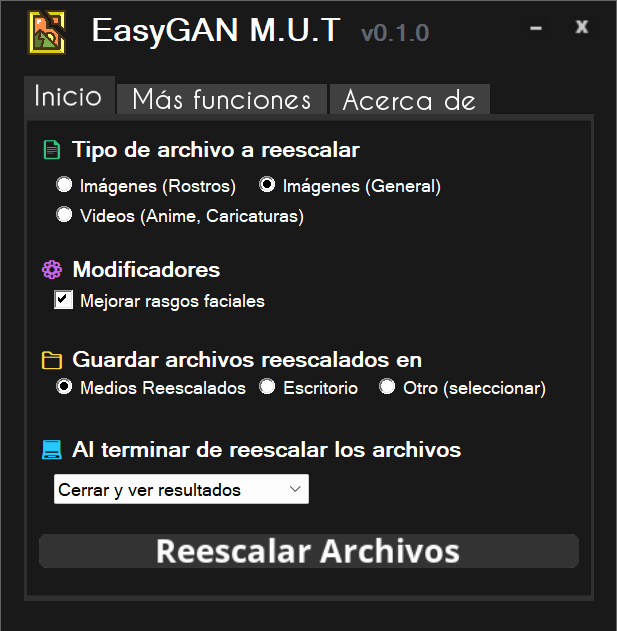
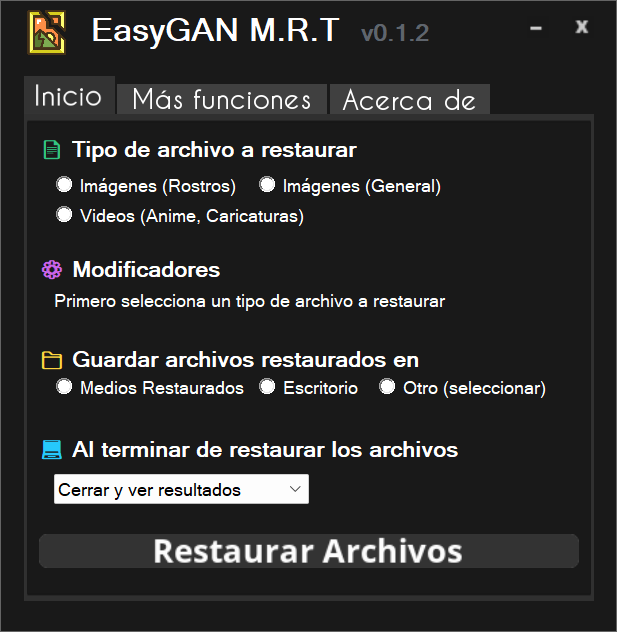
v0.1.2
Pequeña corrección de errores relacionados con python y los complementos de GFP-GAN y RealESRGAN.

Adicionalmente, estoy consciente del error con basicsr+torchvision y [cómo solucionarlo](https://github.com/Gourieff/comfyui-reactor-node/issues/161#issuecomment-1868389557), pero he decicido NO hacer un arreglo 'hard-coded' en caso de que actualicen la librería (aunque ya lleva algunos meses).

diff --git a/Configuraciones/find-library.py b/Configuraciones/find-library.py
@@ -1,0 +1,7 @@
+import importlib.util
+import sys
+spec = importlib.util.find_spec(sys.argv[1])
+if spec is None:
+    print("Not Installed")
+else:
+    print("Installed")

diff --git a/Configuraciones/upgrade-pip.py b/Configuraciones/upgrade-pip.py
@@ -1,0 +1,2 @@
+import subprocess
+subprocess.run(['pip','install','--upgrade','pip'])

diff --git a/README.md b/README.md
@@ -2,33 +2,18 @@
 
 Si quieres ver cómo funciona y qué resultados puedes obtener, te invito a revisar la sección de [Demostración de funcionamiento](https://github.com/mautech05/easygan-media-restoration-tool/blob/main/demos.md) y el [GitHub de Real-ESRGAN](https://github.com/xinntao/Real-ESRGAN)
 
-Este proyecto fue realizado enteramente en scripting de [AutoHotKey v2](https://github.com/AutoHotkey/AutoHotkey). Te invito a que revises cada línea de código y que instales este programa sólo si estás de acuerdo con el contenido y las prácticas que realiza.
+Este proyecto fue realizado mayoritariamente en scripting de [AutoHotKey v2](https://github.com/AutoHotkey/AutoHotkey). Te invito a que revises cada línea de código y que instales este programa sólo si estás de acuerdo con el contenido y las prácticas que realiza.
+
+![GitHub All Releases](https://img.shields.io/badge/version-0.1.2-blue)
+![GitHub All Releases](https://img.shields.io/github/downloads/mautech05/easygan-media-restoration-tool/total)
+
 ## Capturas de Pantalla
 ![Menú](https://github.com/mautech05/easygan-media-restoration-tool/blob/main/preview.png)
-## Sumas de Verificación
-Puedes utilizar estos *checksum* para verificar que la descarga no ha sido alterada y/o infectada por un atacante. En caso de que no tengas una herramienta para esta tarea te recomendamos [Quick Checksum Tool](https://github.com/mautech05/quick-checksum-tool).
-
-| NOMBRE DE ARCHIVO               | SHA256                                                           | MD5                              |
-|---------------------------------|------------------------------------------------------------------|----------------------------------|
-| [EasyGAN_MediaRestorationTool.ahk](https://github.com/mautech05/easygan-media-restoration-tool/blob/main/EasyGAN_MediaRestorationTool.ahk) | b07be8e3bbad3f99f2fdac9922ff043d6121adcbf7753767e43526b2d3c4eb5d | 97b1ee54e0f40cca603f1b4290f60980 |
 
 ## Instalación
 ⚠⚠Es importante mencionar que este programa **requiere** del uso de **AutoHotKey v2** para funcionar. No obstante, también ofrecemos una versión ya compilada para aquellos que no desean o no pueden instalar AutoHotKey. Dicha versión compilada [no está firmada digitalmente](https://www.redeszone.net/2018/04/21/comprobar-firmas-digitales-programas-windows/) (la licencia cuesta casi 500 euros) por lo que Windows tratará de evitar su ejecución.
-- Si **NO** planeas instalar AutoHotKey avanza hasta [esta sección](#sin-autohotkey-instalado) de la guía de instalación.
-- Si estás pensando en instalar este intérprete de scripts sigue [este link](https://www.autohotkey.com/download/ahk-v2.exe) para descargarlo en tu computador y, posteriormente, avanza hasta [esta sección](#con-autohotkey-instalado).
-
-### SIN AutoHotKey instalado
-1. 🌐 Haz clic sobre [este enlace](https://github.com/mautech05/easygan-media-restoration-tool/releases) para dirigirte a la página de las *releases*.
-2. 👀 Ubica el artículo/bloque/*release* que, a la derecha del título, tenga una etiqueta verde con el texto **latest**.
-3. ⚙ Haz clic izquierdo sobre el texto que dice *Assets* para desplegar el menú colapsable. Te mostrará tres enlaces a varios archivos, pero el que nos interesa es el que dice **easygan_release.zip**.
-4. 📦 Presiona clic izquierdo sobre este para comenzar la descarga. Una vez que se haya terminado, coloca el archivo comprimido *.zip* donde prefieras.
-5. 🔓 Utilizando el software de tu preferencia, descomprime el contenido del ZIP, asegurándote de marcar la opción correspondiente para *extraer aquí*.
-6. 📁 Esto te debió haber generado una carpeta con nombre **easygan_release**. Si es así, entonces ya puedes eliminar el archivo comprimido *.zip* pues ya no lo necesitaremos más.
-7. 📄 Abre la carpeta de  **easygan_release** que extraíste previamente. Una vez allí, ubica el archivo llamado **EasyGAN_release.exe** y haz doble clic izquierdo sobre él para ejecutarlo.
-- Si te aparece la ventana azul de *[SmartScreen](https://www.adslzone.net/esenciales/windows/smartscreen-windows/)* es necesario que hagas clic izquierdo sobre el texto de "Más Información" y luego otro clic izquierdo sobre el texto de "Ejecutar de todos modos"
-8. ⌛ Espera unos segundos. El programa creará tres carpetas y posteriormente abrirá la interfaz.
-9. ✅ ¡Todo Listo! Ya puedes comenzar a utilizar el programa. 
-Recuerda que la próxima ocasión que abras el **EasyGAN_release.exe** no tendrás que esperar pues ya cuentas con las tres carpetas esenciales para el funcionamiento de EasyGAN Media Restoration Tool.
+- Si **NO** planeas instalar AutoHotKey (**❌ NO RECOMENDADO**) avanza hasta [esta sección](#sin-autohotkey-instalado) de la guía de instalación.
+- Si estás pensando en instalar este intérprete (**✅ RECOMENDADO**) de scripts sigue [este link](https://www.autohotkey.com/download/ahk-v2.exe) para descargarlo en tu computador y, posteriormente, avanza hasta [esta sección](#con-autohotkey-instalado).
 
 ### CON AutoHotKey instalado
 Si tienes [GIT](https://git-scm.com/) instalado en tu ordenador:
@@ -45,6 +30,26 @@ En caso de que no tengas [GIT](https://git-scm.com/) instalado:
 6. 📲 Cuando se haya terminado la descarga de estas librerías, el instalador te preguntará si deseas crear un acceso directo en el escritorio. De igual forma.
 7. 🐍 Dentro de la misma pantalla te estará apareciendo un texto preguntándote si deseas instalar el [Intérprete de Python recomendado](https://www.python.org/downloads/release/python-31011/) y tres botones de acción. Selecciona el que prefieras.
 8. 😁 ¡Todo Listo! El programa se reiniciará automáticamente y podrás comenzar a usarlo.
+
+### SIN AutoHotKey instalado (**❌ NO RECOMENDADO**)
+1. 🌐 Haz clic sobre [este enlace](https://github.com/mautech05/easygan-media-restoration-tool/releases) para dirigirte a la página de las *releases*.
+2. 👀 Ubica el artículo/bloque/*release* que, a la derecha del título, tenga una etiqueta verde con el texto **latest**.
+3. ⚙ Haz clic izquierdo sobre el texto que dice *Assets* para desplegar el menú colapsable. Te mostrará tres enlaces a varios archivos, pero el que nos interesa es el que dice **easygan_release.zip**.
+4. 📦 Presiona clic izquierdo sobre este para comenzar la descarga. Una vez que se haya terminado, coloca el archivo comprimido *.zip* donde prefieras.
+5. 🔓 Utilizando el software de tu preferencia, descomprime el contenido del ZIP, asegurándote de marcar la opción correspondiente para *extraer aquí*.
+6. 📁 Esto te debió haber generado una carpeta con nombre **easygan_release**. Si es así, entonces ya puedes eliminar el archivo comprimido *.zip* pues ya no lo necesitaremos más.
+7. 📄 Abre la carpeta de  **easygan_release** que extraíste previamente. Una vez allí, ubica el archivo llamado **EasyGAN_release.exe** y haz doble clic izquierdo sobre él para ejecutarlo.
+- Si te aparece la ventana azul de *[SmartScreen](https://www.adslzone.net/esenciales/windows/smartscreen-windows/)* es necesario que hagas clic izquierdo sobre el texto de "Más Información" y luego otro clic izquierdo sobre el texto de "Ejecutar de todos modos"
+8. ⌛ Espera unos segundos. El programa creará tres carpetas y posteriormente abrirá la interfaz.
+9. ✅ ¡Todo Listo! Ya puedes comenzar a utilizar el programa. 
+Recuerda que la próxima ocasión que abras el **EasyGAN_release.exe** no tendrás que esperar pues ya cuentas con las tres carpetas esenciales para el funcionamiento de EasyGAN Media Restoration Tool.
+
+## Sumas de Verificación
+Puedes utilizar estos *checksum* para verificar que la descarga no ha sido alterada y/o infectada por un atacante. En caso de que no tengas una herramienta para esta tarea te recomendamos [Quick Checksum Tool](https://github.com/mautech05/quick-checksum-tool).
+
+| NOMBRE DE ARCHIVO               | SHA256                                                           | MD5                              |
+|---------------------------------|------------------------------------------------------------------|----------------------------------|
+| [EasyGAN_MediaRestorationTool.ahk](https://github.com/mautech05/easygan-media-restoration-tool/blob/main/EasyGAN_MediaRestorationTool.ahk) | 3b3116541080ff2e40d5a2a903c67cabf69b6b27ffff94c609e256bc12fb6d29 | 71498a9bc0fb7aa849cbdcd0d477d82b |
 
 ## Reconocimientos
  - [GFPGAN](https://github.com/TencentARC/GFPGAN): utilizado para restaurar rostros de manera natural y con buena calidad.
